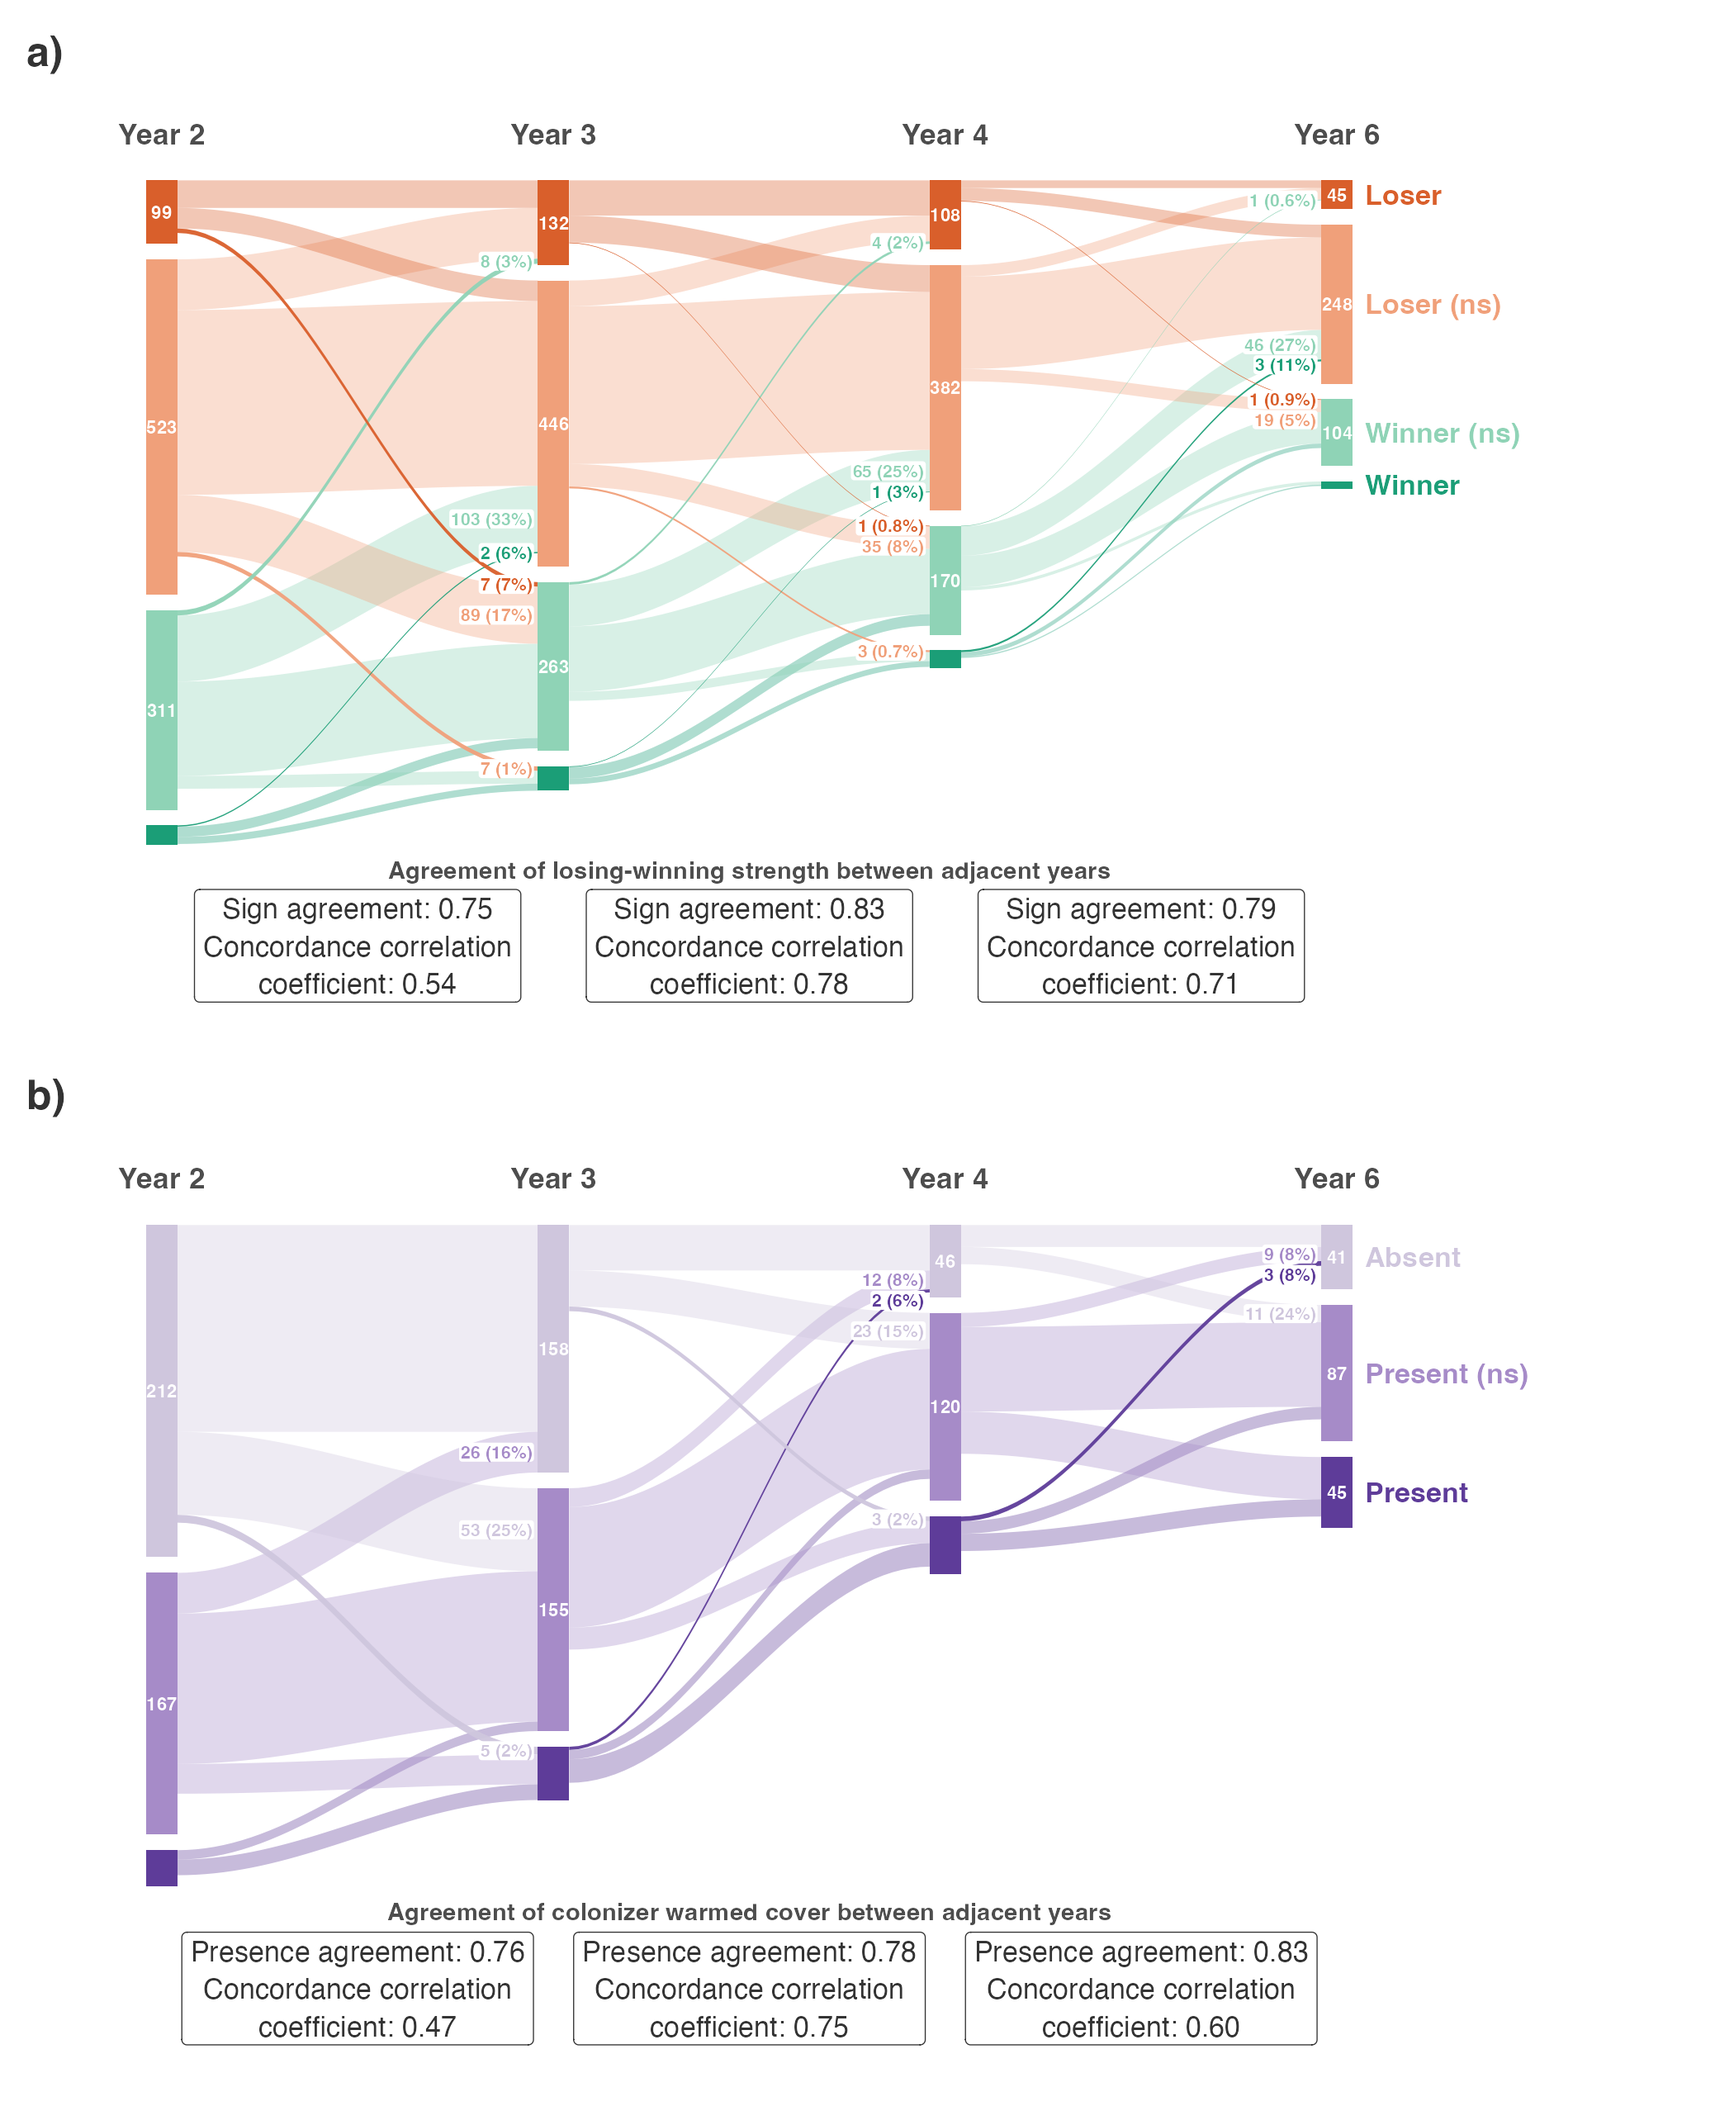
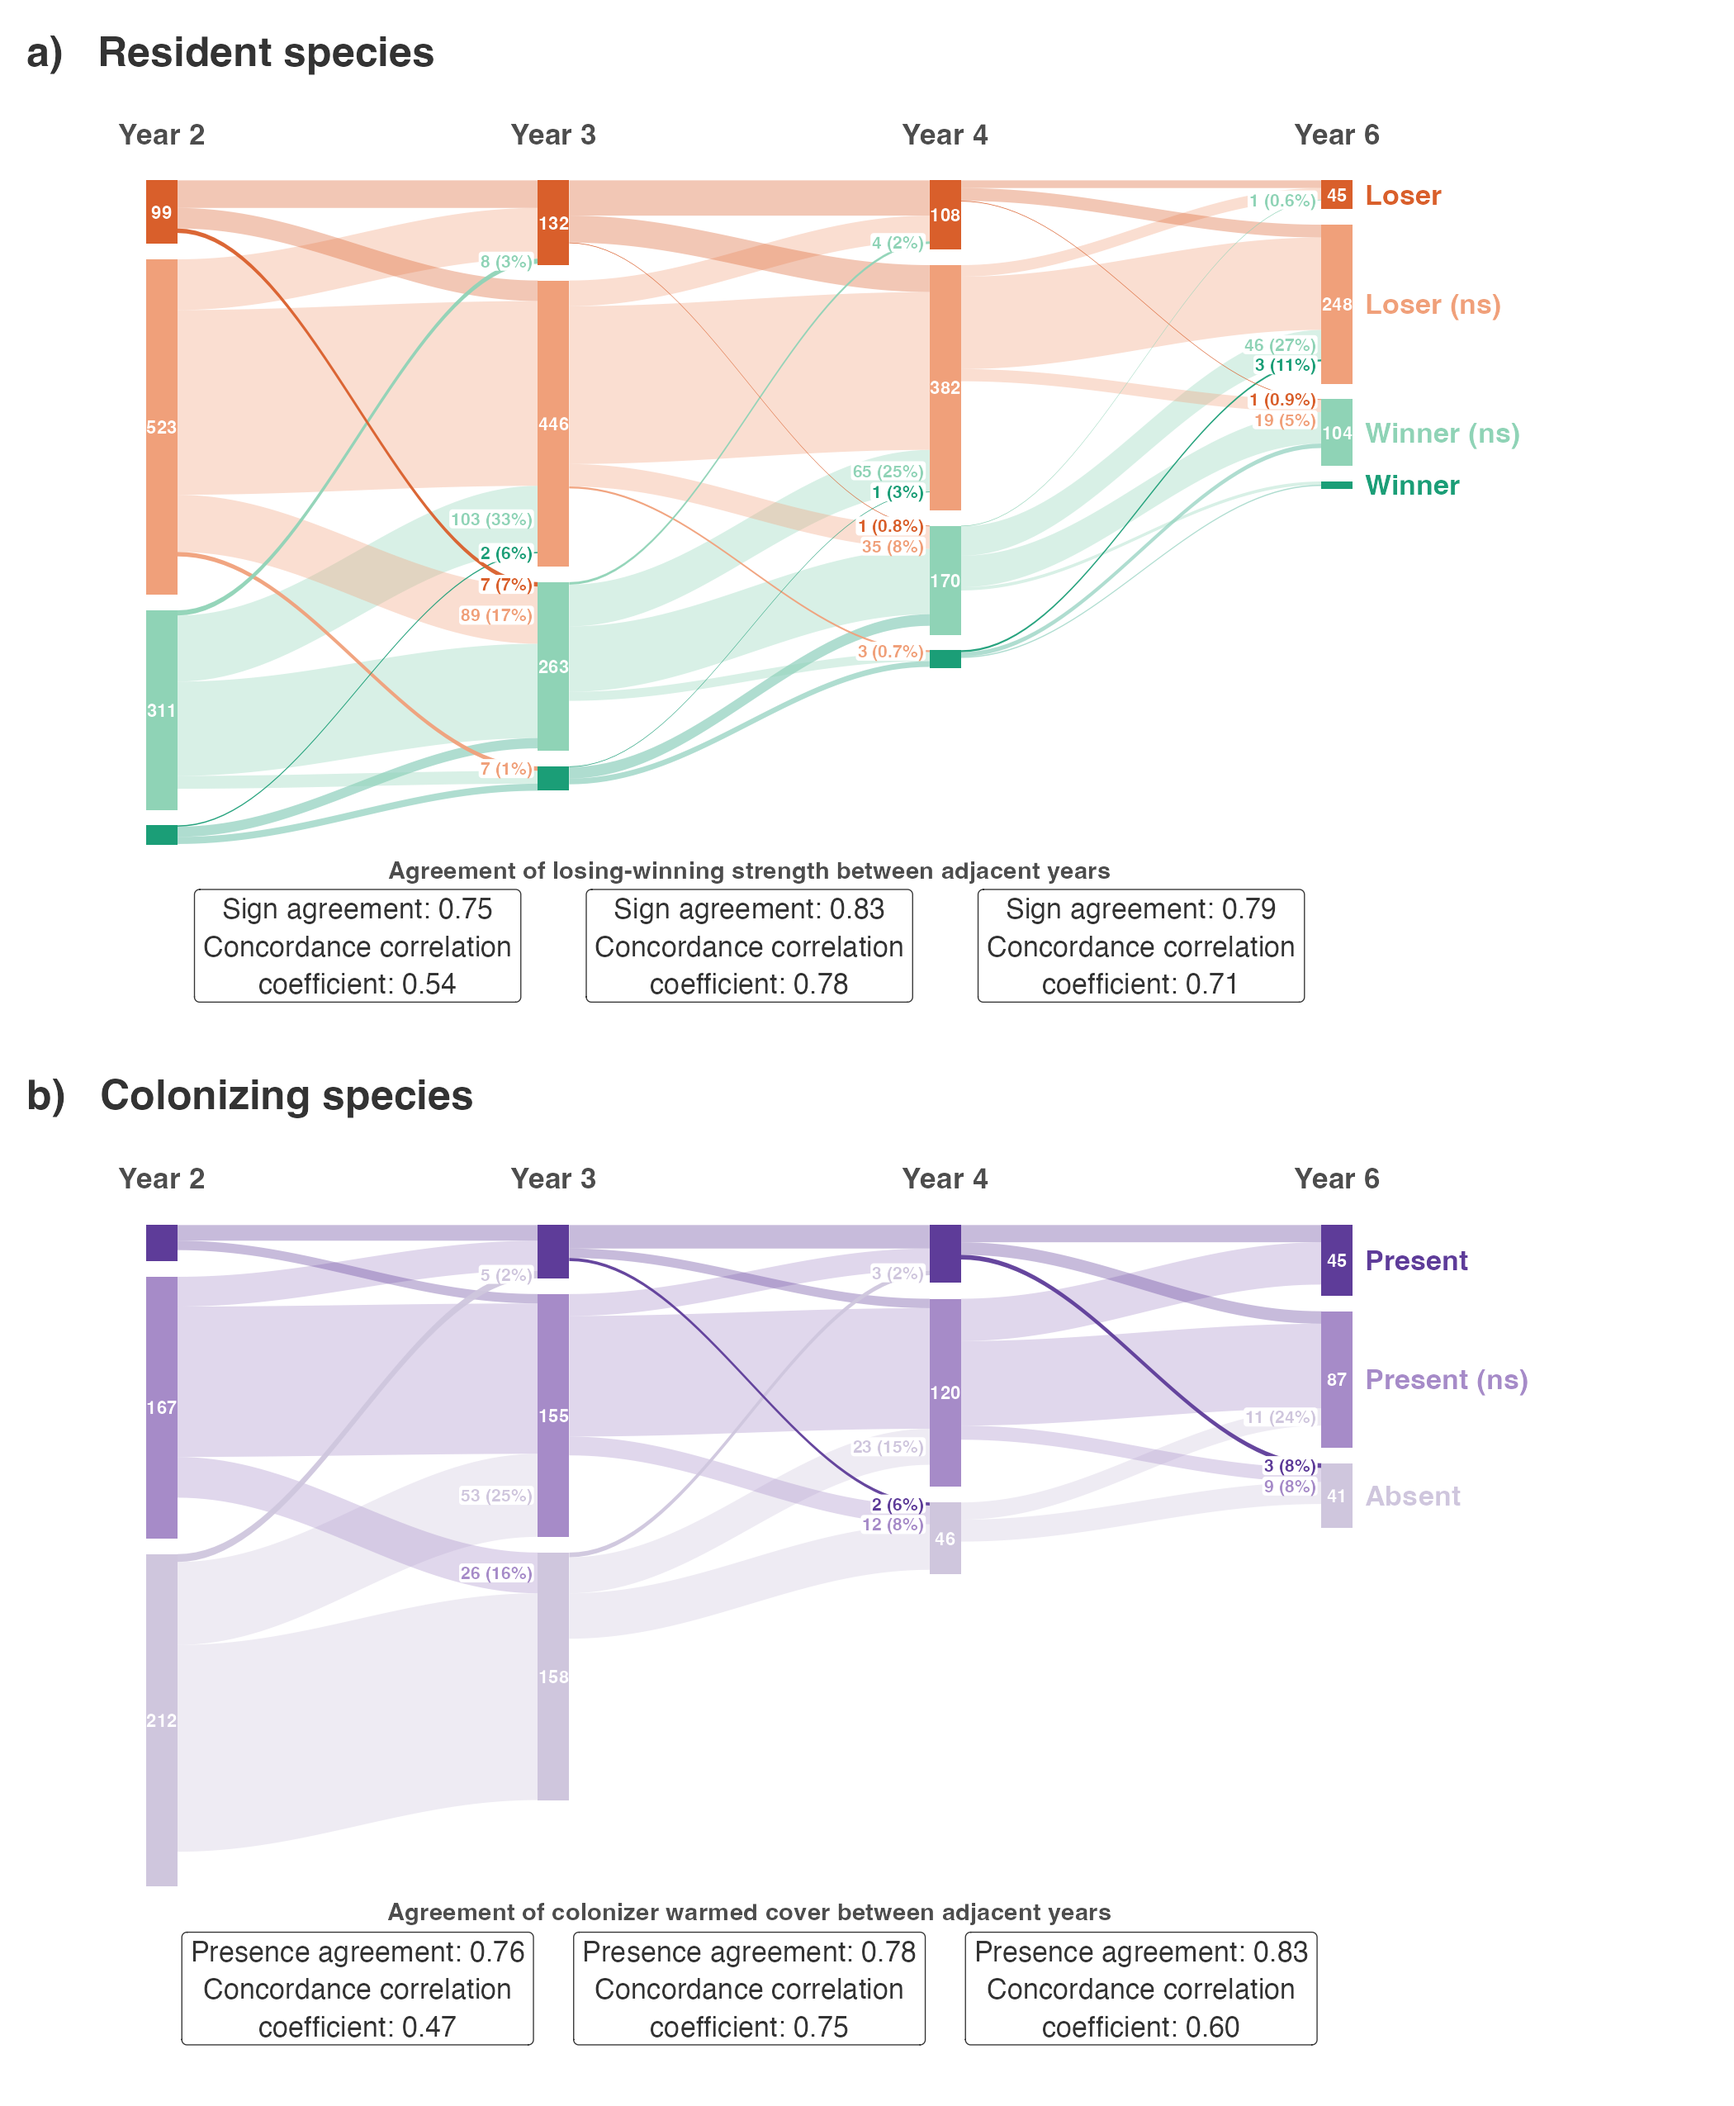
step 07a: Fig 1b classes top down Present, Present (ns), Absent; panel titles Resident species and Colonizing species (Bills, 2 Nov)

Changed region(s): [[0.0619, 0.5576, 0.8357, 0.8984], [0.0619, 0.4957, 0.2786, 0.5267], [0.0619, 0.0, 0.2476, 0.031]]

diff --git a/reports/07a_colonizers.md b/reports/07a_colonizers.md
@@ -61,12 +61,12 @@ Each of the 39 experiments with destination-pool species got one mixed model of 
 
 ## Presence classes per anchor
 
-| year | combinations | Absent | Present (ns) | Present |
+| year | combinations | Present | Present (ns) | Absent |
 | --- | --- | --- | --- | --- |
-| 2 | 402 | 212 | 167 | 23 |
-| 3 | 347 | 158 | 155 | 34 |
-| 4 | 203 | 46 | 120 | 37 |
-| 6 | 173 | 41 | 87 | 45 |
+| 2 | 402 | 23 | 167 | 212 |
+| 3 | 347 | 34 | 155 | 158 |
+| 4 | 203 | 37 | 120 | 46 |
+| 6 | 173 | 45 | 87 | 41 |
 
 ## Stability between anchors (`stability.csv`)
 
